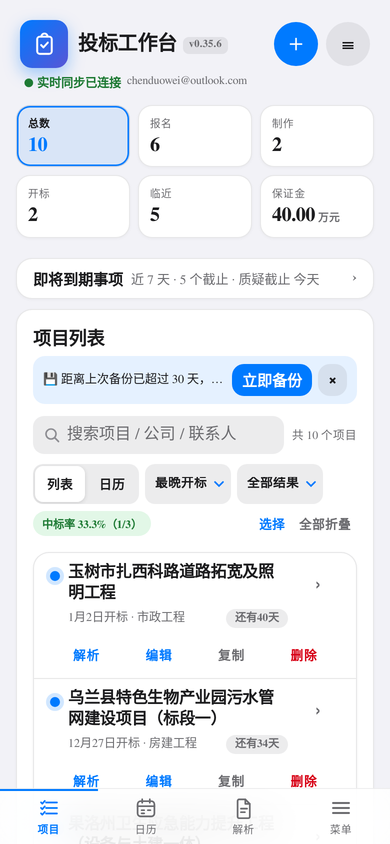
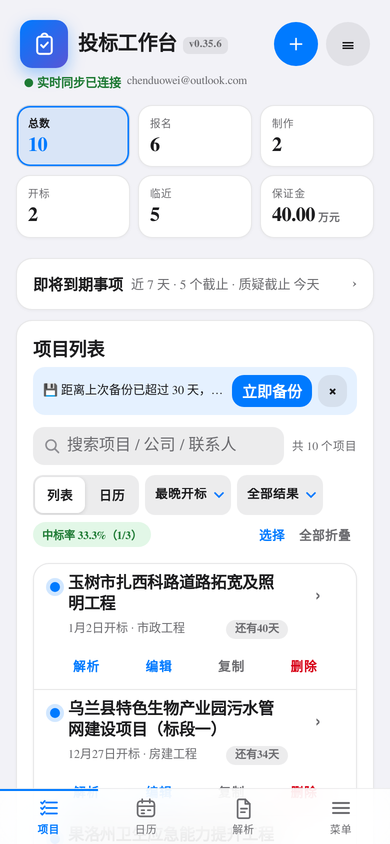
🎨 v0.35.6：临期摘要补回 32px 点击高度 + 文档数字与 README 截图同步

diff --git a/styles.css b/styles.css
@@ -2207,6 +2207,7 @@ body.dark { color-scheme: dark; }
     flex: 1;
     min-width: 0;
     width: auto;
+    min-height: 32px;
     margin-top: 0;
     padding: 0;
     border: 0;

diff --git a/docs/notes.md b/docs/notes.md
@@ -23,7 +23,7 @@
 
 ## 版本维护记录
 
-- v0.35.6：手机端第二轮打磨（真机反馈「手机端总感觉差点意思」）+ 版本号回到可见处，全部收在 `@media (max-width:680px)`，桌面逐像素不变。① 标题右侧一枚 `v0.35.6` 徽标（`.app-version-badge`，桌面 `display:none`）。② 卡片 152 → 126px：卡头三段（名称两行 / 副标题 + 倒计时同一行 / 操作条），靠 `.project-head-main`、`.project-head-top`、`.project-head-right` 三层 `display:contents` 把名称、副标题、胶囊变成同一网格的子项（`10px minmax(0,1fr) auto 44px`）；副标题手机端隐去投标公司（`.project-sub-company`）。③ 工具栏 140 → 82px：第一行「列表|日历 + 排序 + 结果」三枚胶囊，第二行「中标率 · 选择 · 全部折叠」（HTML 里加了 `.list-tools-actions` 包裹层，桌面 `display:contents` 保持原样），日历视图整行收掉。④ 临期面板 75 → 41px：标题与摘要一行（摘要文案改为「近 7 天 · N 个截止 · 标签 今天」）。⑤ 页头 94 → 79px、统计卡 140 → 133px（选中态改整圈描边）、搜索框 38px。⑥ 详情区隐去与卡头重复的「项目名称 / 项目类型」（`.kv-row-name` / `.kv-row-type`），备注改块状（`.kv-row-note`）。⑦ 底部导航 emoji → 24px 单色 SVG，毛玻璃 `blur(20px) saturate(180%)`。⑧ 有卡片展开时 `body.detail-open` 收起浮动「＋」（`ui.syncDetailOpenState`，`toggleProjectDetails` 与 `updateCollapseAllBtn` 两处调）。⑨ 页头菜单改 iOS 菜单（透明行 + hairline）、选择模式操作条两行。⑩ 真 bug：`clearStaleAiResult` 在 v0.35.0 重构时被挪进 `bindEvents()`，模块级 `resetParserState()` 调它会抛 ReferenceError（解析抽屉每次打开都少做一半复位）——移回模块作用域，新增 `tests/app-scope.test.js` 两条静态断言。首卡 top 390×844 685 → 553；测试 155 → 165。
+- v0.35.6：手机端第二轮打磨（真机反馈「手机端总感觉差点意思」）+ 版本号回到可见处，全部收在 `@media (max-width:680px)`，桌面逐像素不变。① 标题右侧一枚 `v0.35.6` 徽标（`.app-version-badge`，桌面 `display:none`）。② 卡片 152 → 126px：卡头三段（名称两行 / 副标题 + 倒计时同一行 / 操作条），靠 `.project-head-main`、`.project-head-top`、`.project-head-right` 三层 `display:contents` 把名称、副标题、胶囊变成同一网格的子项（`10px minmax(0,1fr) auto 44px`）；副标题手机端隐去投标公司（`.project-sub-company`）。③ 工具栏 140 → 82px：第一行「列表|日历 + 排序 + 结果」三枚胶囊，第二行「中标率 · 选择 · 全部折叠」（HTML 里加了 `.list-tools-actions` 包裹层，桌面 `display:contents` 保持原样），日历视图整行收掉。④ 临期面板 75 → 52px：标题与摘要一行（摘要文案改为「近 7 天 · N 个截止 · 标签 今天」）。⑤ 页头 94 → 79px、统计卡 140 → 133px（选中态改整圈描边）、搜索框 38px。⑥ 详情区隐去与卡头重复的「项目名称 / 项目类型」（`.kv-row-name` / `.kv-row-type`），备注改块状（`.kv-row-note`）。⑦ 底部导航 emoji → 24px 单色 SVG，毛玻璃 `blur(20px) saturate(180%)`。⑧ 有卡片展开时 `body.detail-open` 收起浮动「＋」（`ui.syncDetailOpenState`，`toggleProjectDetails` 与 `updateCollapseAllBtn` 两处调）。⑨ 页头菜单改 iOS 菜单（透明行 + hairline）、选择模式操作条两行。⑩ 真 bug：`clearStaleAiResult` 在 v0.35.0 重构时被挪进 `bindEvents()`，模块级 `resetParserState()` 调它会抛 ReferenceError（解析抽屉每次打开都少做一半复位）——移回模块作用域，新增 `tests/app-scope.test.js` 两条静态断言。首卡 top 390×844 685 → 564；测试 155 → 165。
 - v0.35.5：手机竖屏全面打磨（审查报告 21 条落点，全部收在 `@media (max-width:680px)` 内，桌面实测零变化）。① 临期卡 `min-width: 0` + `flex: 0 0 calc(100% - 6px)`，名称两行：647 → 318px。② 卡头改三行网格（名称 / 胶囊 / 操作），名称 104 → 216px（360 下 74 → 186），卡片 122 → 152px。③ 「即将到期事项」手机端收成一行摘要（`#upcomingSummary` + `#upcomingSummaryBtn`，点开才出横条，面板 243 → 67px）；内联表单收起态整块 `display: none`（`body.form-open` 由 `setFormExpanded` 维护），首张卡 top 1295 → 745（390×844）。④ toast 左右 16px、圆角 14px：195×152 → 358×80。⑤ 所有输入控件手机端 16px（含 select，防 iOS 聚焦放大）。⑥ 表单 / 菜单 / 提示条出现时收起浮钮（`form-open` / `menu-open` / `toast-open` 三个 body 类），「↓」移到左下。⑦ 抽屉 `padding-bottom: calc(var(--sp-5) + env(safe-area-inset-bottom))`。⑧ 底部菜单 `max-height: calc(100dvh - 168px - env(...))` + 可滚（375×667 不再裁「退出」）。⑨ 工具栏改两列网格 + 排序文案收短；日历导航一行 + 「回到本月」小字；⑩ 清单勾选框与文字包进 `<label class="checklist-main">`（整行可点，文字 103–125 → 183px），来源徽标下移一行；⑪ 截止提示手机端隐去（与临期面板同口径）、保证金提示收一行 +「查看」（`data-action="open-guarantee"` → `drawers.openGuaranteeSheet`）、备份提示单行；⑫ 保证金卡补「万元」、底部 Tab 94%（深色 96%）。测试 150 → 155（3 条 CSS 落点 + 2 条渲染断言）。
 - v0.35.4：手机竖屏两处。① 项目卡片高度 145 → 121.5px（390×844 / 375×667 / 360 实测同值）：`@media (max-width:680px)` 里换行后的 `row-gap`（12px）与操作行 `margin-top`（6px）叠了 18px，加上下内边距各 10px；现改为内边距 `8px 16px 6px`、`row-gap: 2px`、`margin-top: 0`、按钮间距 6→4，行内按钮仍 44px、两行结构不变。② 详情区状态三选一不再被挤成 2+1：`.kv-row` 是「标签 56px + 间距 16px + 值」，值只剩 194px 而三枚胶囊要 201px；手机端给这一行挂 `kv-row-status`（`js/ui.js` 的 `kv()` 支持第三个 class 参数），标签与控件各占一整行，控件改 `display: grid; grid-template-columns: repeat(3, minmax(0, 1fr))`，360/375/390 实测三枚同 top、无截断、无横向溢出。桌面布局未变（1440 卡片 70.3 → 69.5px，只因名称行高 1.3→1.25）。
 

diff --git a/docs/changelog.md b/docs/changelog.md
@@ -15,16 +15,16 @@
 - **卡头从三行收到三段**：名称（最多两行、整行宽）／元信息与倒计时同一行（副标题靠左、`还有 N 天`胶囊靠右）／操作条。实现是把 `.project-head-main` / `.project-head-top` / `.project-head-right` 都设成 `display: contents`，让名称、副标题、胶囊各自成为网格项（`10px minmax(0,1fr) auto 44px`）。
 - **元信息行只留「日期开标 · 类型」**：投标公司包进 `.project-sub-company` 由手机端隐去 —— 它原来总被截成「青海一建…」，省略号比不显示更难看；公司仍在详情里。名称宽 216 → 220px（360 下 186 → 190、320 下 146 → 150），副标题从截断变为完整。
 - **操作条**：四个等分点击区仍各 44px 高，文字 12.5px、不再有按钮底色与分隔线，只靠颜色分主次（解析 / 编辑 蓝、复制 灰、删除 红）。
-- 实测 390×844：卡片 **152 → 126px**，文档高 2397 → 2010，首屏可见卡片 2 → **3 张**。
+- 实测 390×844：卡片 **152 → 126px**，文档高 2397 → 2010，首屏从「只露出第一张卡的开头」变成 **两张完整卡片**。
 
 ### 首屏：页面越往上，「过渡」越短
 
 - **工具栏 140 → 82px**：原来四行（排序/结果、选择/全部折叠、试图段控件/中标率），现在第一行是「列表|日历 + 最晚开标 + 全部结果」三枚同高胶囊（排序与结果原来是蓝色大号文字，比标题更抢眼），第二行是次级操作「中标率 · 选择 · 全部折叠」（桌面端这一层 `display: contents`，仍是原来那一行）。日历视图里这一行整行收掉。
-- **「即将到期事项」75 → 41px**：标题与摘要并成一行 ——「即将到期事项　近 7 天 · 5 个截止 · 质疑截止 今天 ›」，摘要按钮从 19px 补到 32px 可点。文案也从「未来 7 天 3 个截止 · 最近：报名截止 今天」压到 16 字上下，360 才放得下。
+- **「即将到期事项」75 → 52px**：标题与摘要并成一行 ——「即将到期事项　近 7 天 · 5 个截止 · 质疑截止 今天 ›」，摘要按钮从 19px 补到 32px 可点（面板因此比 41px 多留 11px）。文案也从「未来 7 天 3 个截止 · 最近：报名截止 今天」压到 16 字上下，360 才放得下。
 - **页头 94 → 79px**：品牌角标 52 → 48，标题行与同步行各收一档，右上「＋」与「☰」改成 44px 圆钮。
 - **统计卡 140 → 133px**：内边距 10/12 → 9/11，标签 10.5px，选中态从「顶部 2px 线」改成整圈 1.5px 描边（不被圆角切掉、更清楚）。
 - **搜索框 44 → 38px**：圆角 11px，占位文案收短为「搜索项目 / 公司 / 联系人」（原来在手机上被截成「…/ 备」）。
-- 实测首张卡 top：390×844 **685 → 553**、360×800 685 → 553、320×568 674 → 543；375×667 也终于露出了第一张卡。
+- 实测首张卡 top：390×844 **685 → 564**、360×800 685 → 564、320×568 674 → 554、375×667 685 → 564（667 高的屏也终于露出了第一张卡）。
 
 ### 详情、菜单、选择模式：把「像网页」的地方改成「像系统」
 
